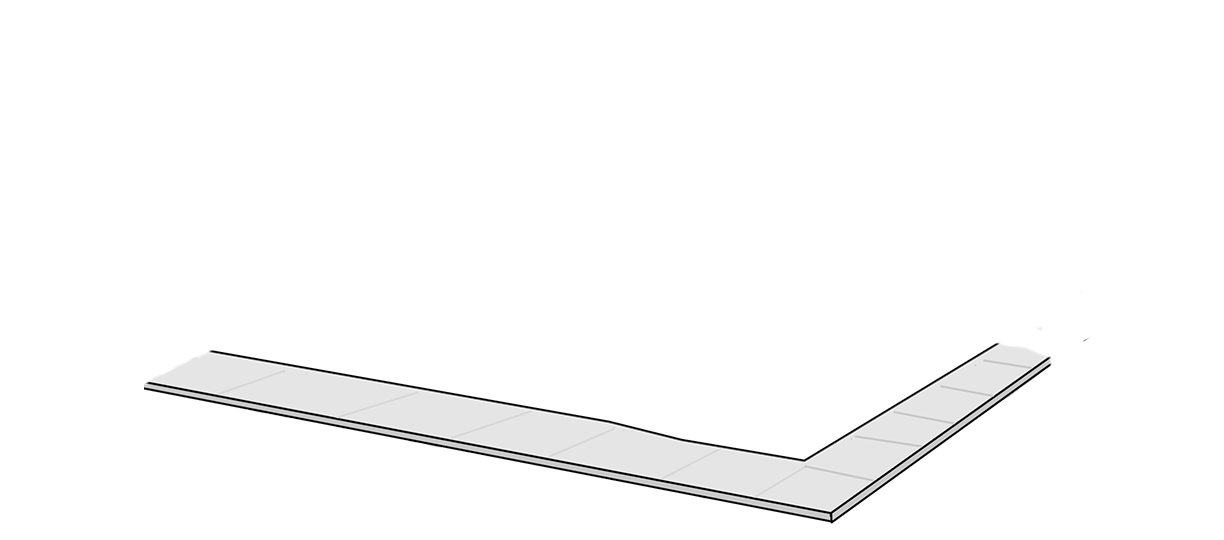
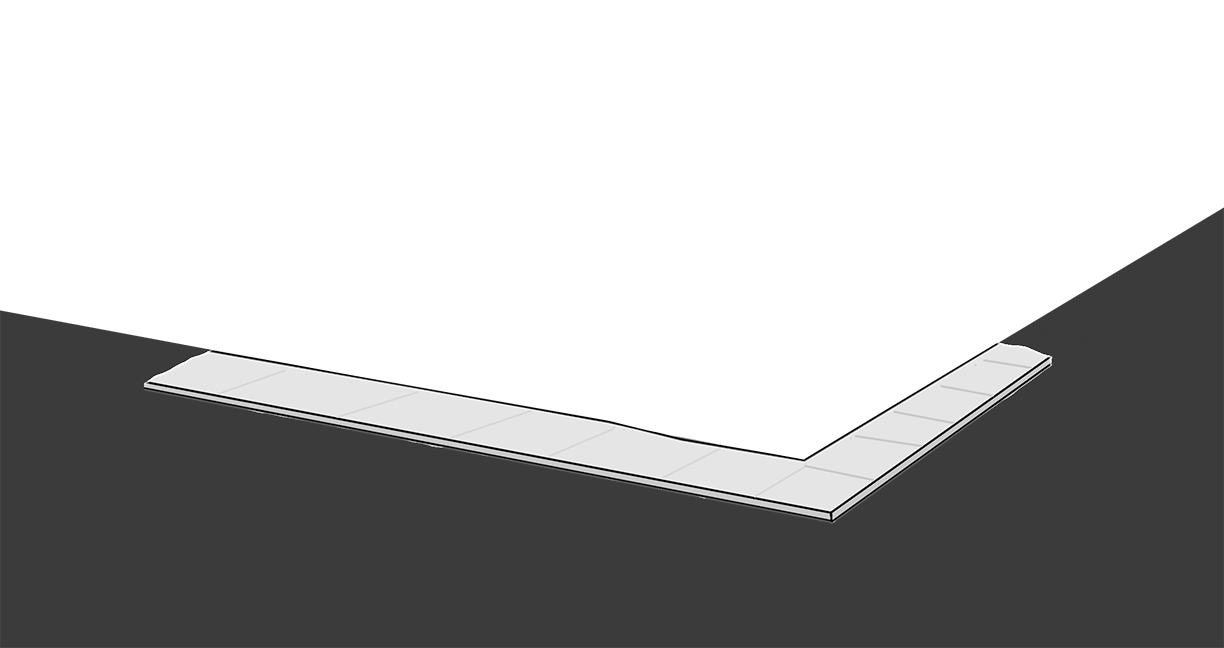
update style

diff --git a/packages/denver-ui/src/pages/HomePage/ScrollingGame.tsx b/packages/denver-ui/src/pages/HomePage/ScrollingGame.tsx
@@ -81,9 +81,11 @@ const Title = styled.div.attrs<{ topPos: number }>({
 `;
 
 
+
 const ScrollingGame = () => {
   const [scroll, setScroll] = useState([0, 0]);
-  const [scrollX, scrollY] = scroll;
+  let [scrollX, scrollY] = scroll;
+
 
   const [openedBuilding, setOpenedBuilding] = useState(STARTLOGGEDIN);
   const [loggedIn, setLoggedIn] = useState(STARTLOGGEDIN);
@@ -94,7 +96,10 @@ const ScrollingGame = () => {
   const rightScrollBarOffset = 15
   let totalHeight = height*screenRatio
   let bottom = height+scrollY
-  let scrollPercent = Math.floor(scrollY / height / screenRatio * 100)//Math.round(scrollY / (totalHeight-height) * 100)
+
+  const overScrollToMakeFloorsAtTheTopShowUpBetter = 1.25
+
+  let scrollPercent = Math.floor(scrollY / height / screenRatio * 100 * overScrollToMakeFloorsAtTheTopShowUpBetter)//Math.round(scrollY / (totalHeight-height) * 100)
   if(!scrollPercent) scrollPercent = 0
   scrollPercent = Math.max(scrollPercent,0)
   scrollPercent = Math.min(scrollPercent,100)
@@ -107,11 +112,11 @@ const ScrollingGame = () => {
   let layerWidth = rangePercent(scrollPercent,width*2,width*1.1)
 
 
-  let layerLeft = rangePercent(scrollPercent,layerWidth*0.2,layerWidth*0.05)
+  let layerLeft = 0//rangePercent(scrollPercent,layerWidth*0.2,layerWidth*0.05)
 
 
   let mountainWidth = rangePercent(scrollPercent,width*1.6,width*1.1)
-  let mountainsTop = rangePercent(scrollPercent,height*0.35,height*0.01)
+  let mountainsTop = rangePercent(scrollPercent,height*0.30,height*0.01)
   let mountainPerspective = rangePercent(scrollPercent,layerWidth*0.15,layerWidth*0.2)
 
   let layerCount = 1
@@ -125,7 +130,7 @@ const ScrollingGame = () => {
 
   let foothillsDistance = 0.16 - scrollPercent/100 * 0.16
 
-  let foothillsTop = rangePercent(scrollPercent,height*0.24,-height*0.08)
+  let foothillsTop = rangePercent(scrollPercent,height*0.16,-height*0.08)
   let foothillsPerspective = rangePercent(scrollPercent,layerWidth*0.05,layerWidth*0.2)
 
   let cityDistance = 0.6 - scrollPercent/100 * 0.3
@@ -136,7 +141,7 @@ const ScrollingGame = () => {
   let cityOffset = rangePercent(scrollPercent,-height*0.1,-height*0.05)
 
   let cityPerspective = rangePercent(scrollPercent,layerWidth*0.09,layerWidth*0.2)
-  let cityTop = rangePercent(scrollPercent,height*0.3,height*0.02)
+  let cityTop = rangePercent(scrollPercent,height*0.2,height*0.02)
 
   let treesDistance = 0.8 - scrollPercent/100 * 0.2
 
@@ -163,20 +168,20 @@ const ScrollingGame = () => {
 
 
 
-  if(loggedIn && sidewalkBottom < height*0.5){
+  if(loggedIn && sidewalkBottom < height*0.3){
     exploded = true
     sidewalkBottom = rangePercent(scrollPercent,height*0.5333,height*0.7)
     sidewalkDivider = 1
   }
 
-  layerLeft += scrollX
+  //layerLeft += scrollX
 
 
   let castleBackTop = coverMax+scrollOffsetBuilding/2+15 // Math.max(height*0.2,coverMax+scrollOffsetBuilding/2+15)
 
   const buildingLayerSpread = 0.22
 
-  let layer1Bottom = coverMax < height * 0.5
+  let layer1Bottom = coverMax < height * 0.3
     ? Math.max(height*0.6,rangePercent(scrollPercent,height*0.82,-height*0.5))
     : coverMax;
 
@@ -192,6 +197,10 @@ const ScrollingGame = () => {
   const stickPointLayer5 = (coverMax < stickPointLayer4 ? stickPointLayer4 : coverMax) - height * buildingLayerSpread;
   const stickPointLayer6 = (coverMax < stickPointLayer5 ? stickPointLayer5 : coverMax) - height * buildingLayerSpread;
 
+  //console.log("scrollX",scrollX)
+
+  const castleOffset = 0.2
+  const castleScroll = scrollX*(0.9 - scrollPercent/100 * 0.1)
 
   return (
     <Fragment>
@@ -237,7 +246,7 @@ const ScrollingGame = () => {
             index={layerCount++}
             img={mountainsFiles.undermountains}
             width={mountainWidth}
-            left={-layerLeft - scrollX * mountainDistance}
+            left={-width*0.05-layerLeft - scrollX * mountainDistance}
             top={mountainsTop}
             perspective={mountainPerspective}
             opacity={rangePercent(scrollPercent,0.99,0)}
@@ -246,7 +255,7 @@ const ScrollingGame = () => {
             index={layerCount++}
             img={mountainsFiles.mountainsFull}
             width={mountainWidth}
-            left={-layerLeft - scrollX * mountainDistance}
+            left={-width*0.05-layerLeft - scrollX * mountainDistance}
             top={mountainsTop}
             perspective={mountainPerspective}
             opacity={rangePercent(scrollPercent,0.99,0)}
@@ -255,7 +264,7 @@ const ScrollingGame = () => {
             index={layerCount++}
             img={mountainsFiles.overmountains}
             width={mountainWidth}
-            left={-layerLeft - scrollX * mountainDistance}
+            left={-width*0.05-layerLeft - scrollX * mountainDistance}
             top={mountainsTop}
             perspective={mountainPerspective}
             opacity={mountainOverOpacity}
@@ -265,7 +274,7 @@ const ScrollingGame = () => {
             index={layerCount++}
             img={mountainsFiles.foothills}
             width={layerWidth}
-            left={-layerLeft - scrollX * foothillsDistance}
+            left={-width*0.05-layerLeft - scrollX * foothillsDistance}
             top={foothillsTop}
             perspective={foothillsPerspective}
             brightness={rangePercent(scrollPercent,100,50)}
@@ -299,7 +308,7 @@ const ScrollingGame = () => {
             index={layerCount++}
             img={castleFiles.castleBack}
             width={layerWidth}
-            left={-layerLeft}
+            left={-width*castleOffset-castleScroll}
             top={castleBackTop}
             perspective={sidewalkPerspective}
           />
@@ -310,7 +319,7 @@ const ScrollingGame = () => {
             index={layerCount++}
             img={castleFiles._sidewalk_1}
             width={layerWidth}
-            left={-layerLeft}
+            left={-width*castleOffset-castleScroll}
             top={6 + sidewalkBottom + scrollOffsetBuilding / sidewalkDivider}
             perspective={sidewalkPerspective}
           />
@@ -320,7 +329,7 @@ const ScrollingGame = () => {
               index={layerCount++}
               img={castleFiles.floor1_preview}
               width={layerWidth}
-              left={-layerLeft}
+              left={-width*castleOffset-castleScroll}
               top={layer1Bottom + scrollOffsetBuilding}
               perspective={sidewalkPerspective}
             />
@@ -330,7 +339,7 @@ const ScrollingGame = () => {
                 index={layerCount++}
                 img={castleFiles.floor1}
                 width={layerWidth}
-                left={-layerLeft}
+                left={-width*castleOffset-castleScroll}
                 top={layer1Bottom + scrollOffsetBuilding}
                 perspective={sidewalkPerspective}
               >
@@ -345,7 +354,7 @@ const ScrollingGame = () => {
                 index={layerCount++}
                 img={SHOWOWOCKI ? castleFiles.floor2_owocki : castleFiles.floor2}
                 width={layerWidth}
-                left={-layerLeft}
+                left={-width*castleOffset-castleScroll}
                 top={stickPointLayer2 + scrollOffsetBuilding}
                 perspective={sidewalkPerspective}
               >
@@ -361,7 +370,7 @@ const ScrollingGame = () => {
                   index={layerCount++}
                   img={castleFiles.floor3}
                   width={layerWidth}
-                  left={-layerLeft}
+                  left={-width*castleOffset-castleScroll}
                   top={stickPointLayer3 + scrollOffsetBuilding}
                   perspective={sidewalkPerspective}
                 />
@@ -372,7 +381,7 @@ const ScrollingGame = () => {
                   index={layerCount++}
                   img={castleFiles.floor4}
                   width={layerWidth}
-                  left={-layerLeft}
+                  left={-width*castleOffset-castleScroll}
                   top={stickPointLayer4 + scrollOffsetBuilding}
                   perspective={sidewalkPerspective}
                 />
@@ -381,9 +390,9 @@ const ScrollingGame = () => {
               {coverMax < stickPointLayer5 && (
                 <Layer
                   index={layerCount++}
-                  img={SHOWBOUNTIES ? castleFiles.floor5 : castleFiles.floor5_wtf}
+                  img={!SHOWBOUNTIES ? castleFiles.floor5 : castleFiles.floor5_wtf}
                   width={layerWidth}
-                  left={-layerLeft}
+                  left={-width*castleOffset-castleScroll}
                   top={stickPointLayer5 + scrollOffsetBuilding}
                   perspective={sidewalkPerspective}
                 >
@@ -400,7 +409,7 @@ const ScrollingGame = () => {
                   index={layerCount++}
                   img={castleFiles.floor6}
                   width={layerWidth}
-                  left={-layerLeft}
+                  left={-width*castleOffset-castleScroll}
                   top={stickPointLayer6 + scrollOffsetBuilding}
                   perspective={sidewalkPerspective}
                 />
@@ -412,11 +421,11 @@ const ScrollingGame = () => {
             index={layerCount++}
             img={castleFiles.castleFull}
             width={layerWidth}
-            left={-layerLeft}
+            left={-width*castleOffset-castleScroll}
             top={coverMax + scrollOffsetBuilding/2}
             perspective={sidewalkPerspective}
           />
-          <PegaBufficorn rightPos={scrollX/3} topPos={rangePercent(scrollPercent, 0, -height * 0.8)} />
+          <PegaBufficorn rightPos={-width*0.1+scrollX/3} topPos={rangePercent(scrollPercent, height * 0.05, -height * 0.8)} />
         </div>
       </Fixed>
 

diff --git a/packages/denver-ui/src/pages/HomePage/PegaBufficorn.tsx b/packages/denver-ui/src/pages/HomePage/PegaBufficorn.tsx
@@ -18,7 +18,7 @@ const PegaBufficorn = styled.div.attrs<{ topPos: number, rightPos: number }>({
   padding-bottom: 66.66%;
   background-image: url(${pegabuff});
   background-repeat: no-repeat;
-  animation: ${buffiAnimate} 0.25s steps(2) infinite;
+  animation: ${buffiAnimate} 0.15s steps(2) infinite;
 `;
 
 export default PegaBufficorn;

diff --git a/packages/denver-ui/src/GlobalStyles.ts b/packages/denver-ui/src/GlobalStyles.ts
@@ -47,7 +47,7 @@ const GlobalStyle = createGlobalStyle`
   }
 
   body {
-    background-image: url('${stars}'), linear-gradient(to bottom, #0a1411 0%,#372e56 20%,#df5089 100%);
+    background-image: url('${stars}'), linear-gradient(to bottom, #111111 0%,#333333 20%,#222222 100%);
     background-attachment: fixed;
   }
 
